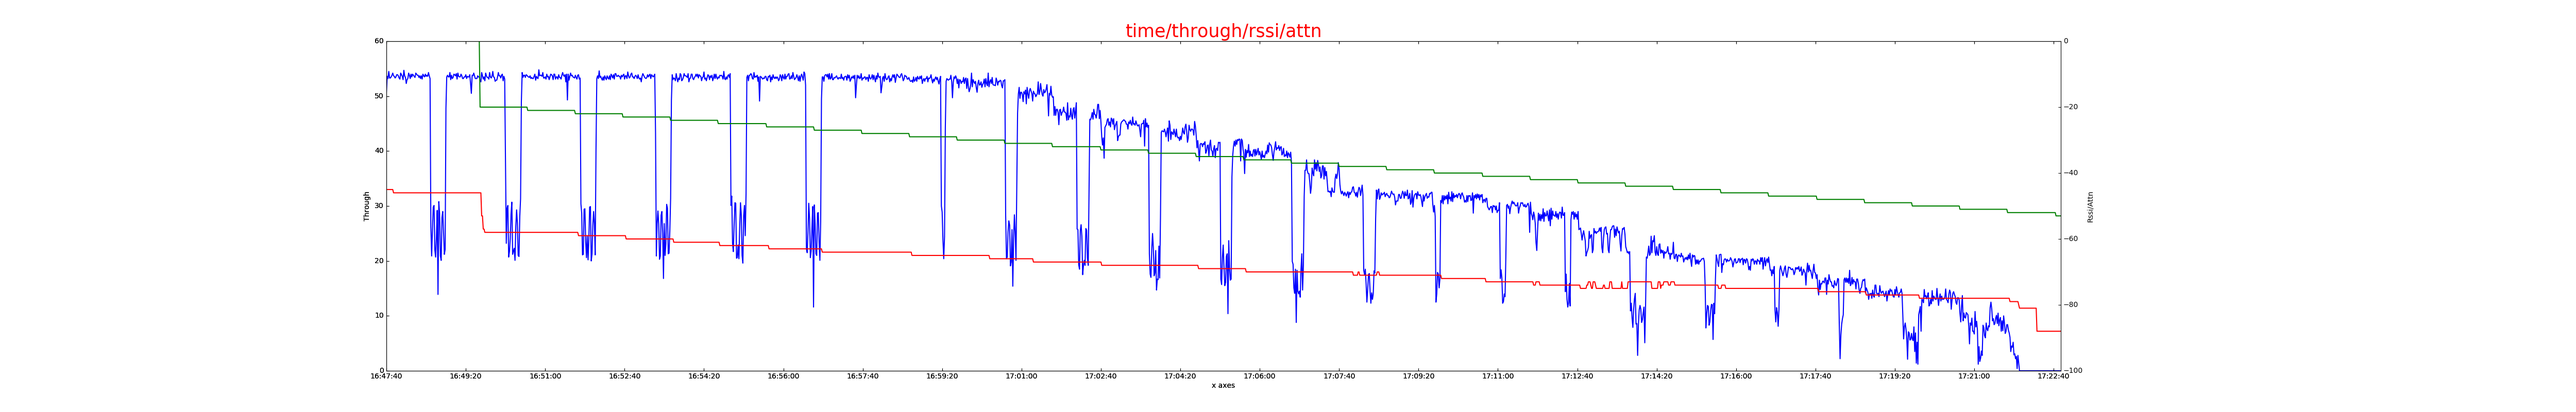
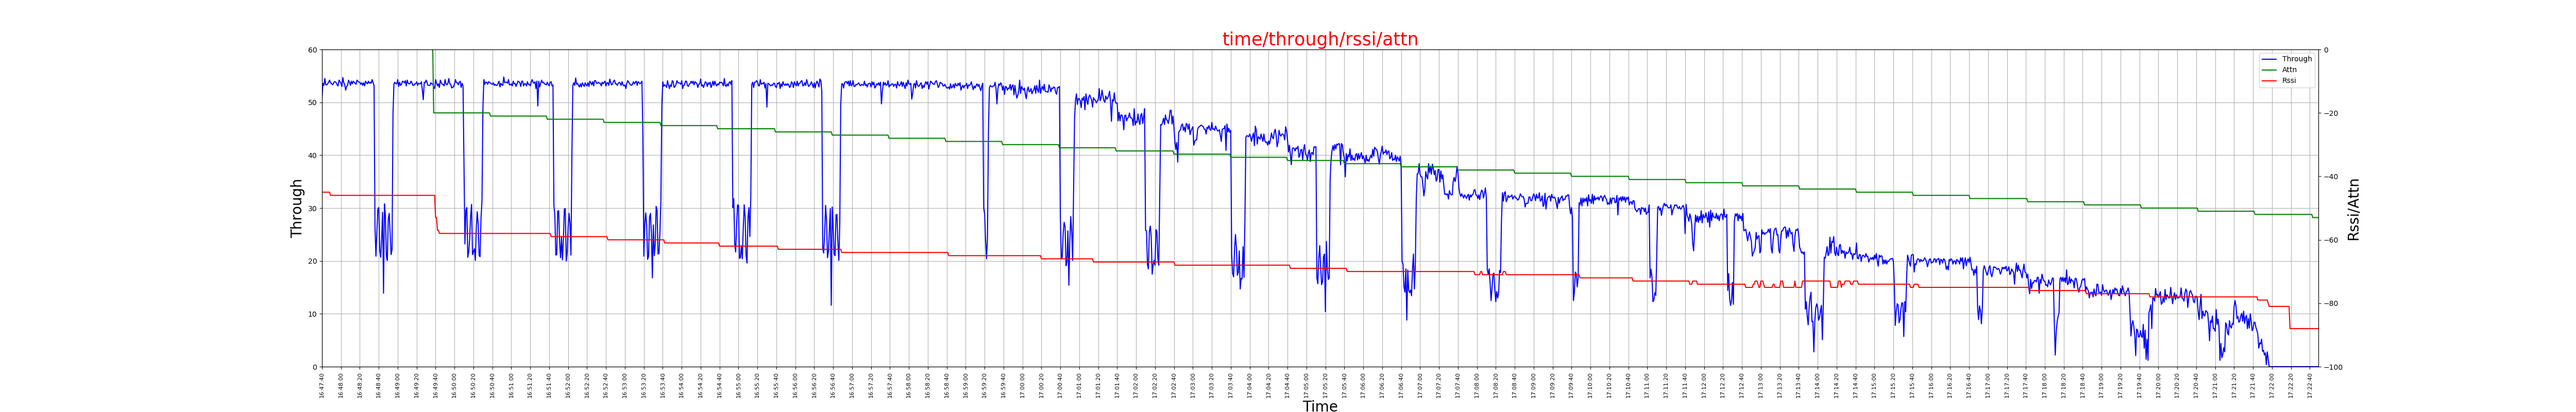
override the draw_save function

diff --git a/external.py b/external.py
@@ -11,8 +11,8 @@ HIGH = 8
 WIDTH = 50
 
 
-def draw_save(data_time, data_through, data_rssi, data_attn, data_interval=1, time_interval=50,
-              title="time/through/rssi/attn", save_path="logging.png"):
+def draw_save_Obsolete(data_time, data_through, data_rssi, data_attn, data_interval=1, time_interval=1,
+                       title="time/through/rssi/attn", save_path="logging.png"):
     x_labels = data_time
     x_ticks = [i for i in range(len(x_labels))][::data_interval]
     through = data_through[::data_interval]
@@ -57,14 +57,48 @@ def draw_save(data_time, data_through, data_rssi, data_attn, data_interval=1, ti
     plt.show()
 
 
+def draw_save(data_time, data_through, data_rssi, data_attn, data_interval=1, time_interval=50,
+              title="time/through/rssi/attn", save_path="logging.png"):
+    x_labels = data_time
+    x_ticks = [i for i in range(len(x_labels))][::data_interval]
+    through = data_through[::data_interval]
+    rssi = data_rssi[::data_interval]
+    attn = data_attn[::data_interval]
+
+    fig = plt.figure(figsize=(WIDTH, HIGH))
+
+    host = fig.add_subplot(111)
+    parasite = plt.twinx()
+
+    host.set_ylabel("Through", fontsize=20)
+    host.set_xlabel("Time", fontsize=20)
+    parasite.set_ylabel("Rssi/Attn", fontsize=20)
+
+    host.set_ylim(0, 60.)
+    host.set_xlim(x_ticks[0], x_ticks[-1])
+    parasite.set_ylim(-100, 0)
+
+    x_tick = x_ticks[::time_interval]
+    x_label = x_labels[::time_interval]
+    host.set_xticks(x_tick)
+    host.set_xticklabels(tuple(x_label), rotation=90, fontsize=8)
+
+    line_through, = host.plot(x_ticks, through, "b-", label="Through")
+    line_attn, = parasite.plot(x_ticks, attn, "g-", label="Attn")
+    line_rssi, = parasite.plot(x_ticks, rssi, "r-", label="Rssi")
+
+    host.set_title(title, fontsize=25, color='r')
+    host.grid()
+
+    plt.legend([line_through, line_attn, line_rssi], ["Through", "Attn", "Rssi"])
+    fig.canvas.print_figure(save_path)
+    plt.show()
+
+
 if __name__ == '__main__':
     import numpy as np
 
     data = np.loadtxt("test.txt", delimiter=",", dtype=str, encoding='utf-8')
     draw_save(np.array(data[:, 0]).tolist(), np.array(data[:, 1], dtype=float).tolist(),
               np.array(data[:, 2], dtype=float).tolist(),
-              list(map(lambda x: -x, np.array(data[:, 3], dtype=float).tolist())), 1, 100)
-    # import time
-    #
-    # date = time.strftime("%H:%M:%S")
-    # print(date)
+              list(map(lambda x: -x, np.array(data[:, 3], dtype=float).tolist())), 1, 20)
